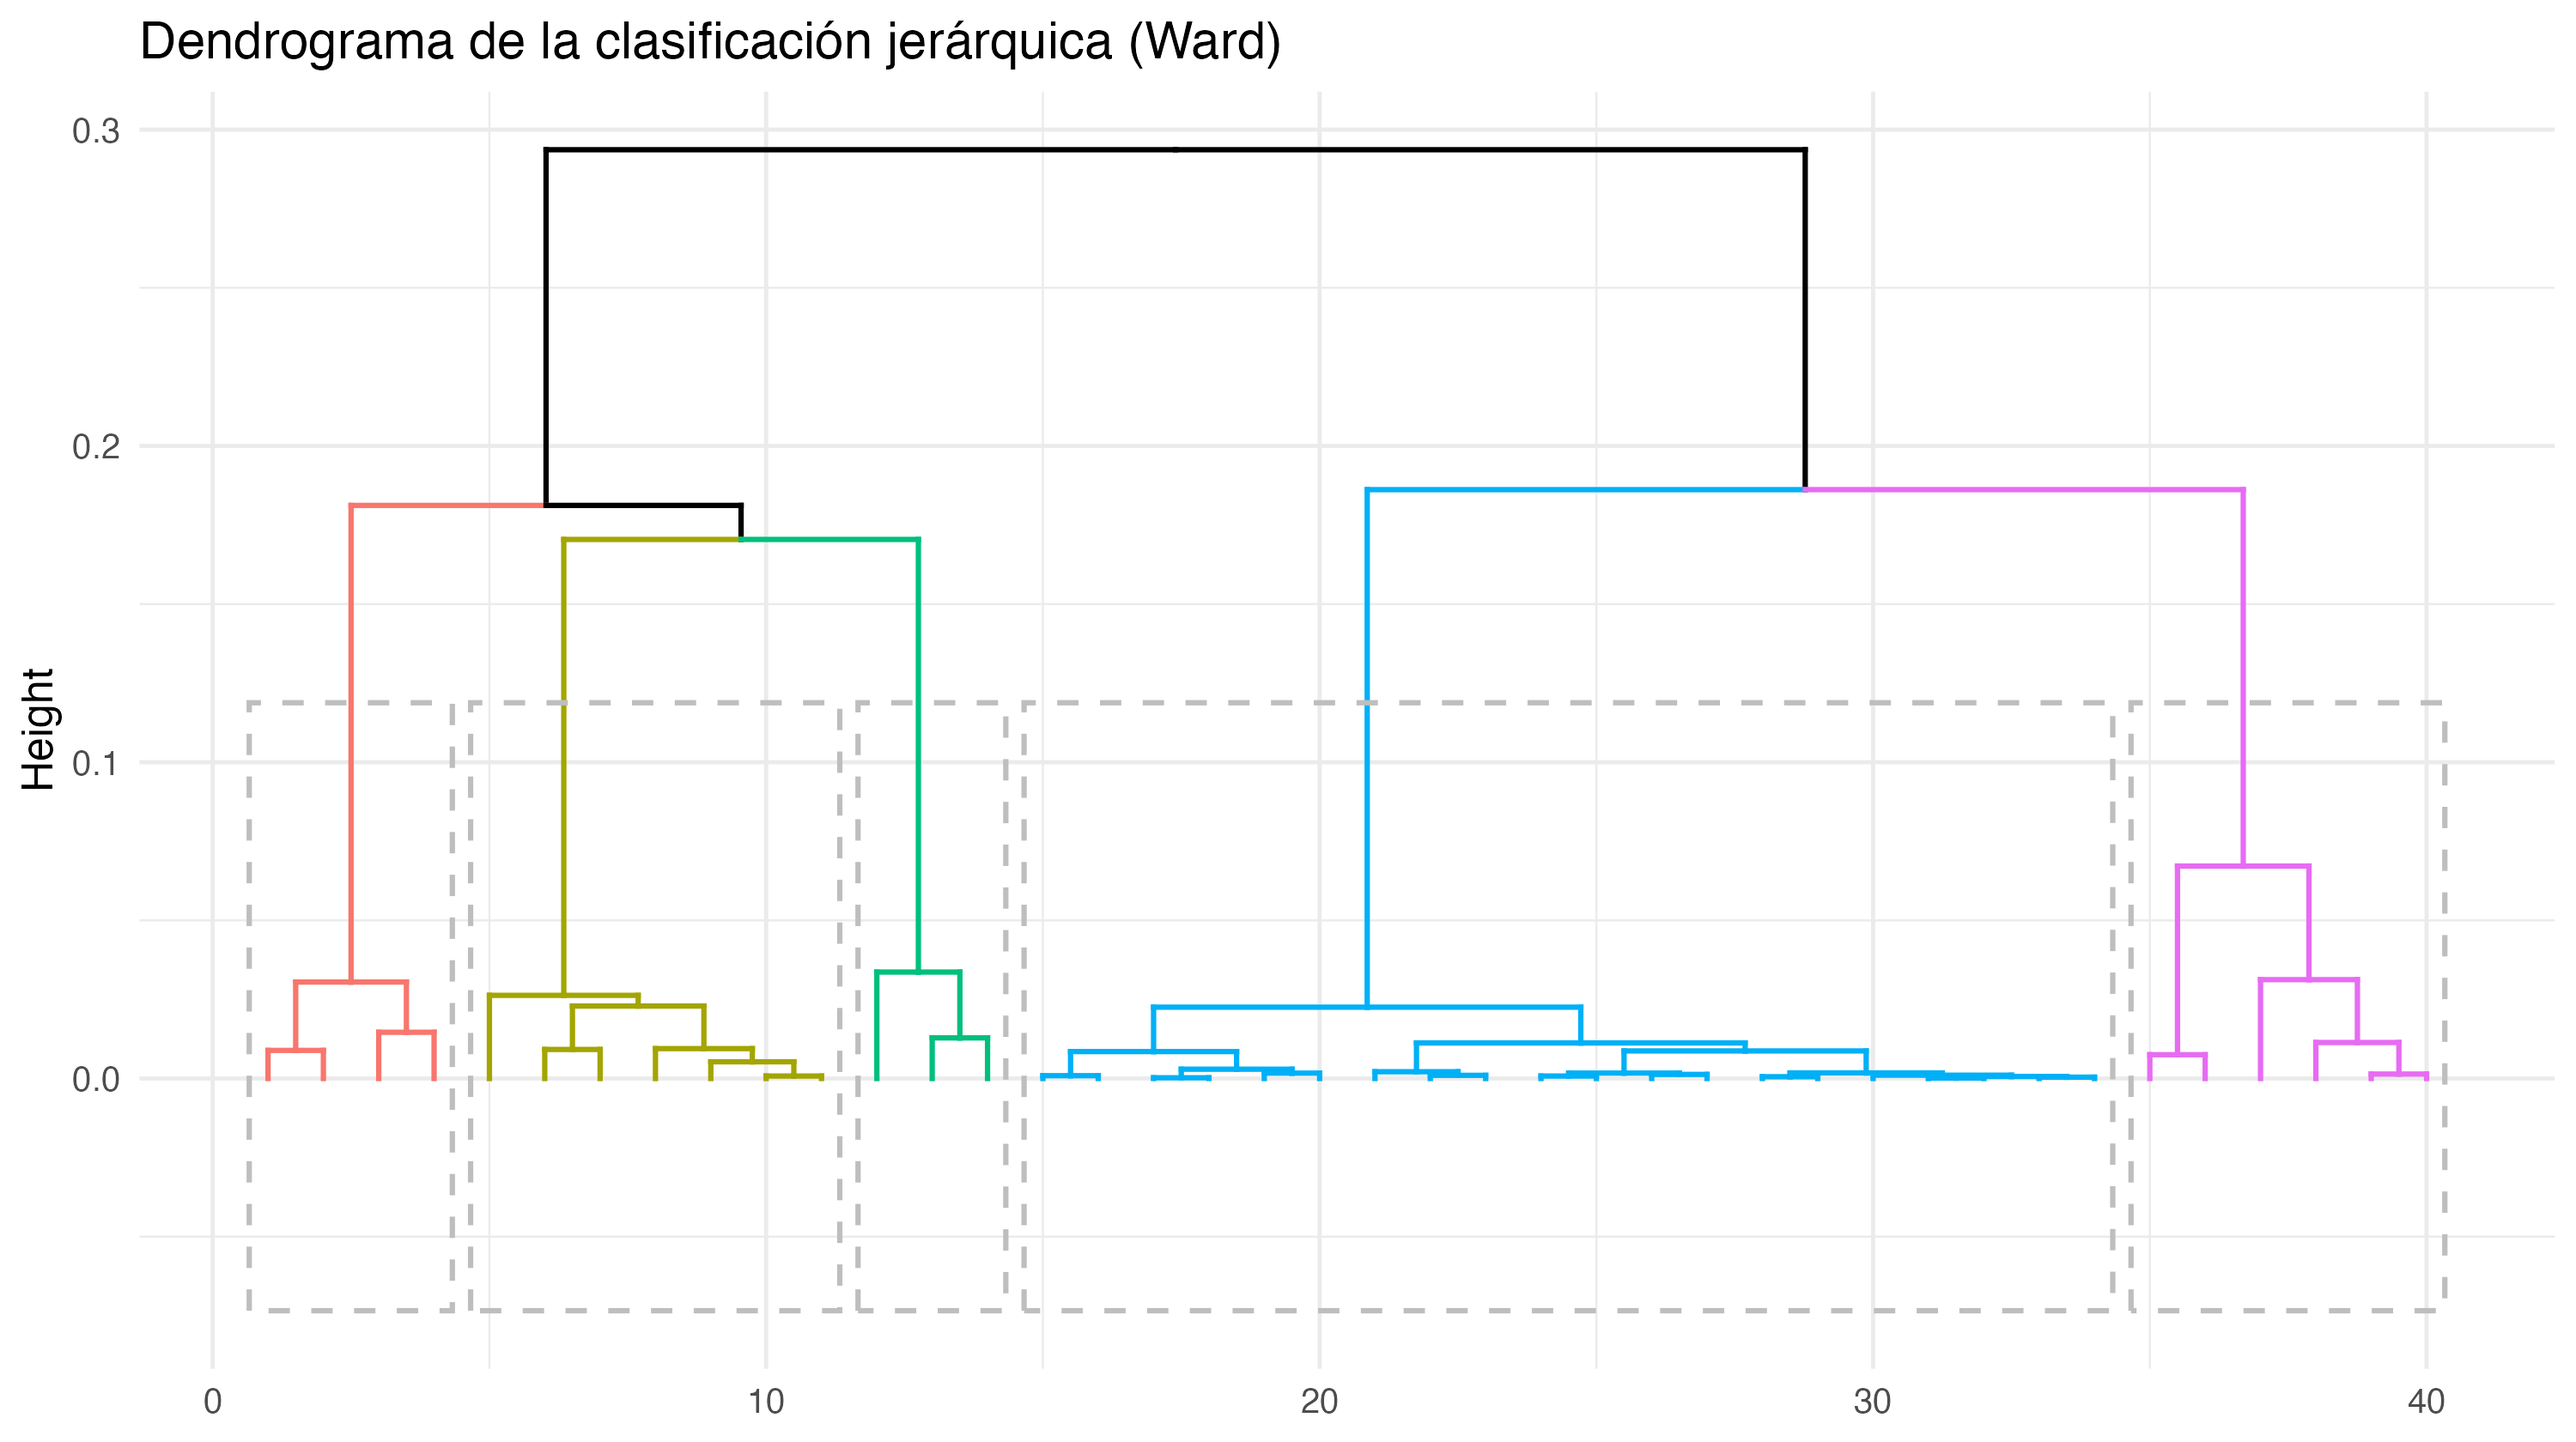
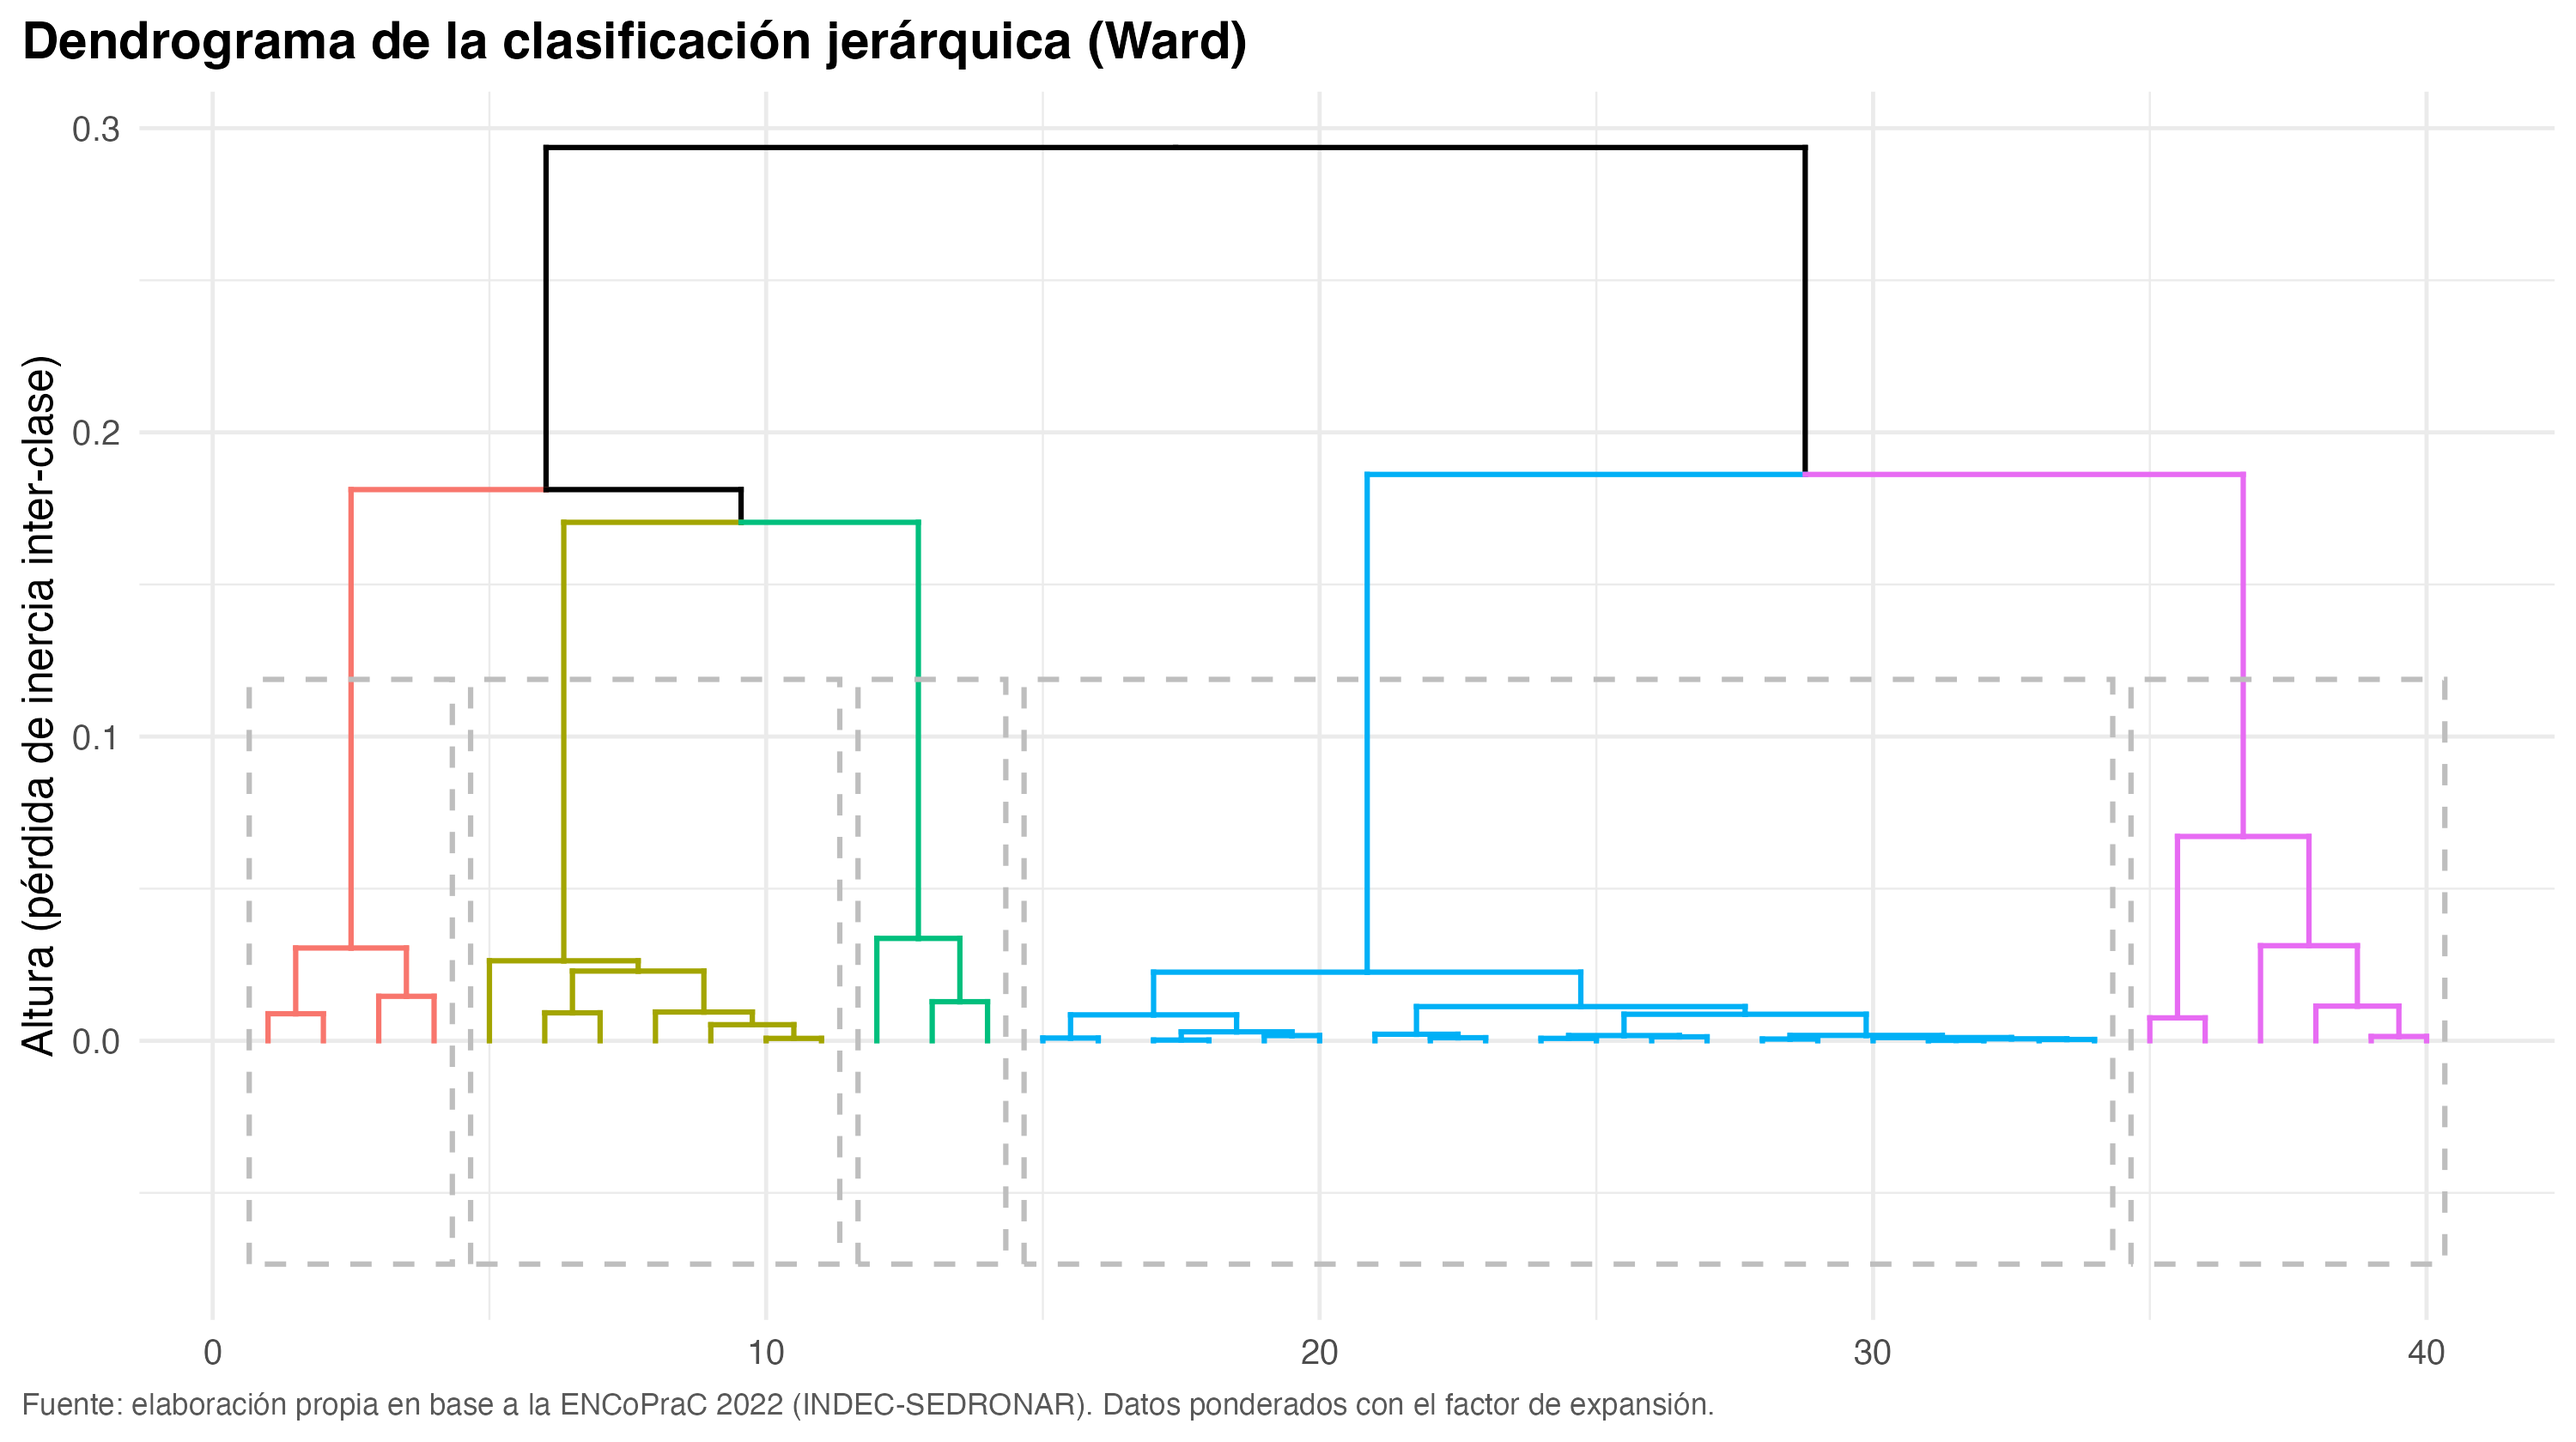
Fuente en todos los gráficos, estilo común y textos en castellano
- utils/estilo_graficos.R: fuente, tema (tema_g11) y colores comunes
- Caption con la fuente en los gráficos de los scripts 03, 04 y 05
- 'WPER' reemplazado por 'factor de expansión' en los textos de los gráficos
- Ejes de factoextra en castellano (Dimensión, Altura)
- 01_limpieza.R: encabezado de entrega final y comentario actualizado
- README: versiones de R y paquetes, brecha por edad corregida

diff --git a/README.md b/README.md
@@ -61,7 +61,7 @@ tp_g11/
 
 1. Clonar o descargar el repositorio.
 2. Abrir `tp_g11.Rproj` en RStudio (así todas las rutas son relativas).
-3. Instalar los paquetes: `tidyverse`, `scales`, `ggrepel`, `survey`, `FactoMineR`, `factoextra`.
+3. Instalar los paquetes: `tidyverse`, `scales`, `ggrepel`, `survey`, `FactoMineR`, `factoextra`. El análisis se corrió con **R 4.6.1** y estas versiones: tidyverse 2.0.0 (ggplot2 4.0.3, dplyr 1.2.1, tidyr 1.3.2, readr 2.2.0), scales 1.4.0, ggrepel 0.9.8, survey 4.5, FactoMineR 2.18 y factoextra 2.2.0. El detalle completo queda en `output/session_info.txt`, que se regenera al correr `00_main.R`.
 4. Correr `script/00_main.R`, o los scripts de a uno en este orden. Cada uno lee los archivos que dejó el anterior:
 
 | Script | Qué hace | Archivos que genera |
@@ -75,7 +75,7 @@ tp_g11/
 | `07_gini_theil.R` | Gini, Lorenz y Theil | `output/tablas/t14`, `t15`, `output/graficos/g14`, `g15` |
 | `08_graficos_instancia3.R` | Gráficos exploratorio y comunicativo | `output/graficos/grupo_11_exploratorio.jpg`, `grupo_11_comunicativo.jpg` |
 
-Las funciones propias están en `utils/` (`guardar`, `coma`, `fmt_p`, `pct`, `leer_base_encoprac`, `indice_rand_ajustado`, `mediana_ponderada`, `percentil_ponderado`, `desvio_ponderado`, `calcular_gini`, `calcular_theil`, `descomponer_theil`) y se cargan con `source()`.
+Las funciones propias están en `utils/` (`guardar`, `estilo_graficos` (fuente, tema y colores comunes a todos los gráficos), `coma`, `fmt_p`, `pct`, `leer_base_encoprac`, `indice_rand_ajustado`, `mediana_ponderada`, `percentil_ponderado`, `desvio_ponderado`, `calcular_gini`, `calcular_theil`, `descomponer_theil`) y se cargan con `source()`.
 
 ## Decisiones metodológicas y limitaciones
 
@@ -87,7 +87,7 @@ Las funciones propias están en `utils/` (`guardar`, `coma`, `fmt_p`, `pct`, `le
 
 ## Conclusiones principales
 
-- **P1 (tranquilizantes).** La brecha de género se sostiene al controlar por edad y por nivel educativo: las mujeres tienen alrededor del doble de chances de haber consumido tranquilizantes en los últimos 12 meses (OR común ≈ 2,0), con 8,8% contra 4,9% en el total. La diferencia relativa es estable, pero la absoluta crece con la edad (de 2,7 a 11,1 puntos porcentuales). El efecto es chico (V de Cramer = 0,09).
+- **P1 (tranquilizantes).** La brecha de género se sostiene al controlar por edad y por nivel educativo: las mujeres tienen alrededor del doble de chances de haber consumido tranquilizantes en los últimos 12 meses (OR común ≈ 2,0), con 8,8% contra 4,9% en el total. La diferencia relativa es estable, pero la absoluta es mayor en las edades altas: entre 1,4 y 2,7 puntos porcentuales en los menores de 50 años, 5,6 puntos entre los 50 y los 65 años y 11,1 puntos entre los 66 y los 75 años. El efecto es chico (V de Cramer = 0,09).
 - **P2 (perfiles).** A igual edad y sexo, un clima educativo más alto se asocia con más consumo de alcohol y menos de tabaco. El ACM y la clasificación de Ward separan cinco perfiles de consumo; uno de ellos reúne a quienes consumen tranquilizantes (66% mujeres, mayoría de 50 años o más), que es la brecha de P1 vista desde otro método. Ese grupo aparece igual en las seis variantes del análisis de robustez (4, 5 y 6 grupos, sin la intensidad y con el alcohol unificado; tabla `t20`). Hay que leerlo con cuidado: el grupo coincide exactamente con quienes consumieron tranquilizantes, porque en el ACM esa categoría, poco frecuente, pesa mucho y separa a esas personas sola. Lo que cambia según la especificación es cómo se reparten los consumos de alcohol en los demás grupos (índice de Rand ajustado de 0,85 a 0,87 con 4 y 6 grupos, y de 0,20 a 0,56 al cambiar las variables).
 - **P3 (concentración).** Entre quienes tomaron alcohol en el último mes, el Gini de los tragos del día de mayor consumo es 0,50 (0,49 al winsorizar los valores extremos, por lo que la decisión sobre los outliers no cambia la conclusión). El 10% que más toma concentra el 39,8% de los tragos. Más del 90% de la desigualdad ocurre dentro de los grupos: el sexo explica el 1,9% del índice de Theil, el clima educativo el 1,2% y la edad el 8,1%.
 - **Lectura conjunta.** Las variables sociodemográficas ordenan el consumo (quién consume qué), pero explican poco de su intensidad: la mayor parte de la variación está dentro de cada grupo.
